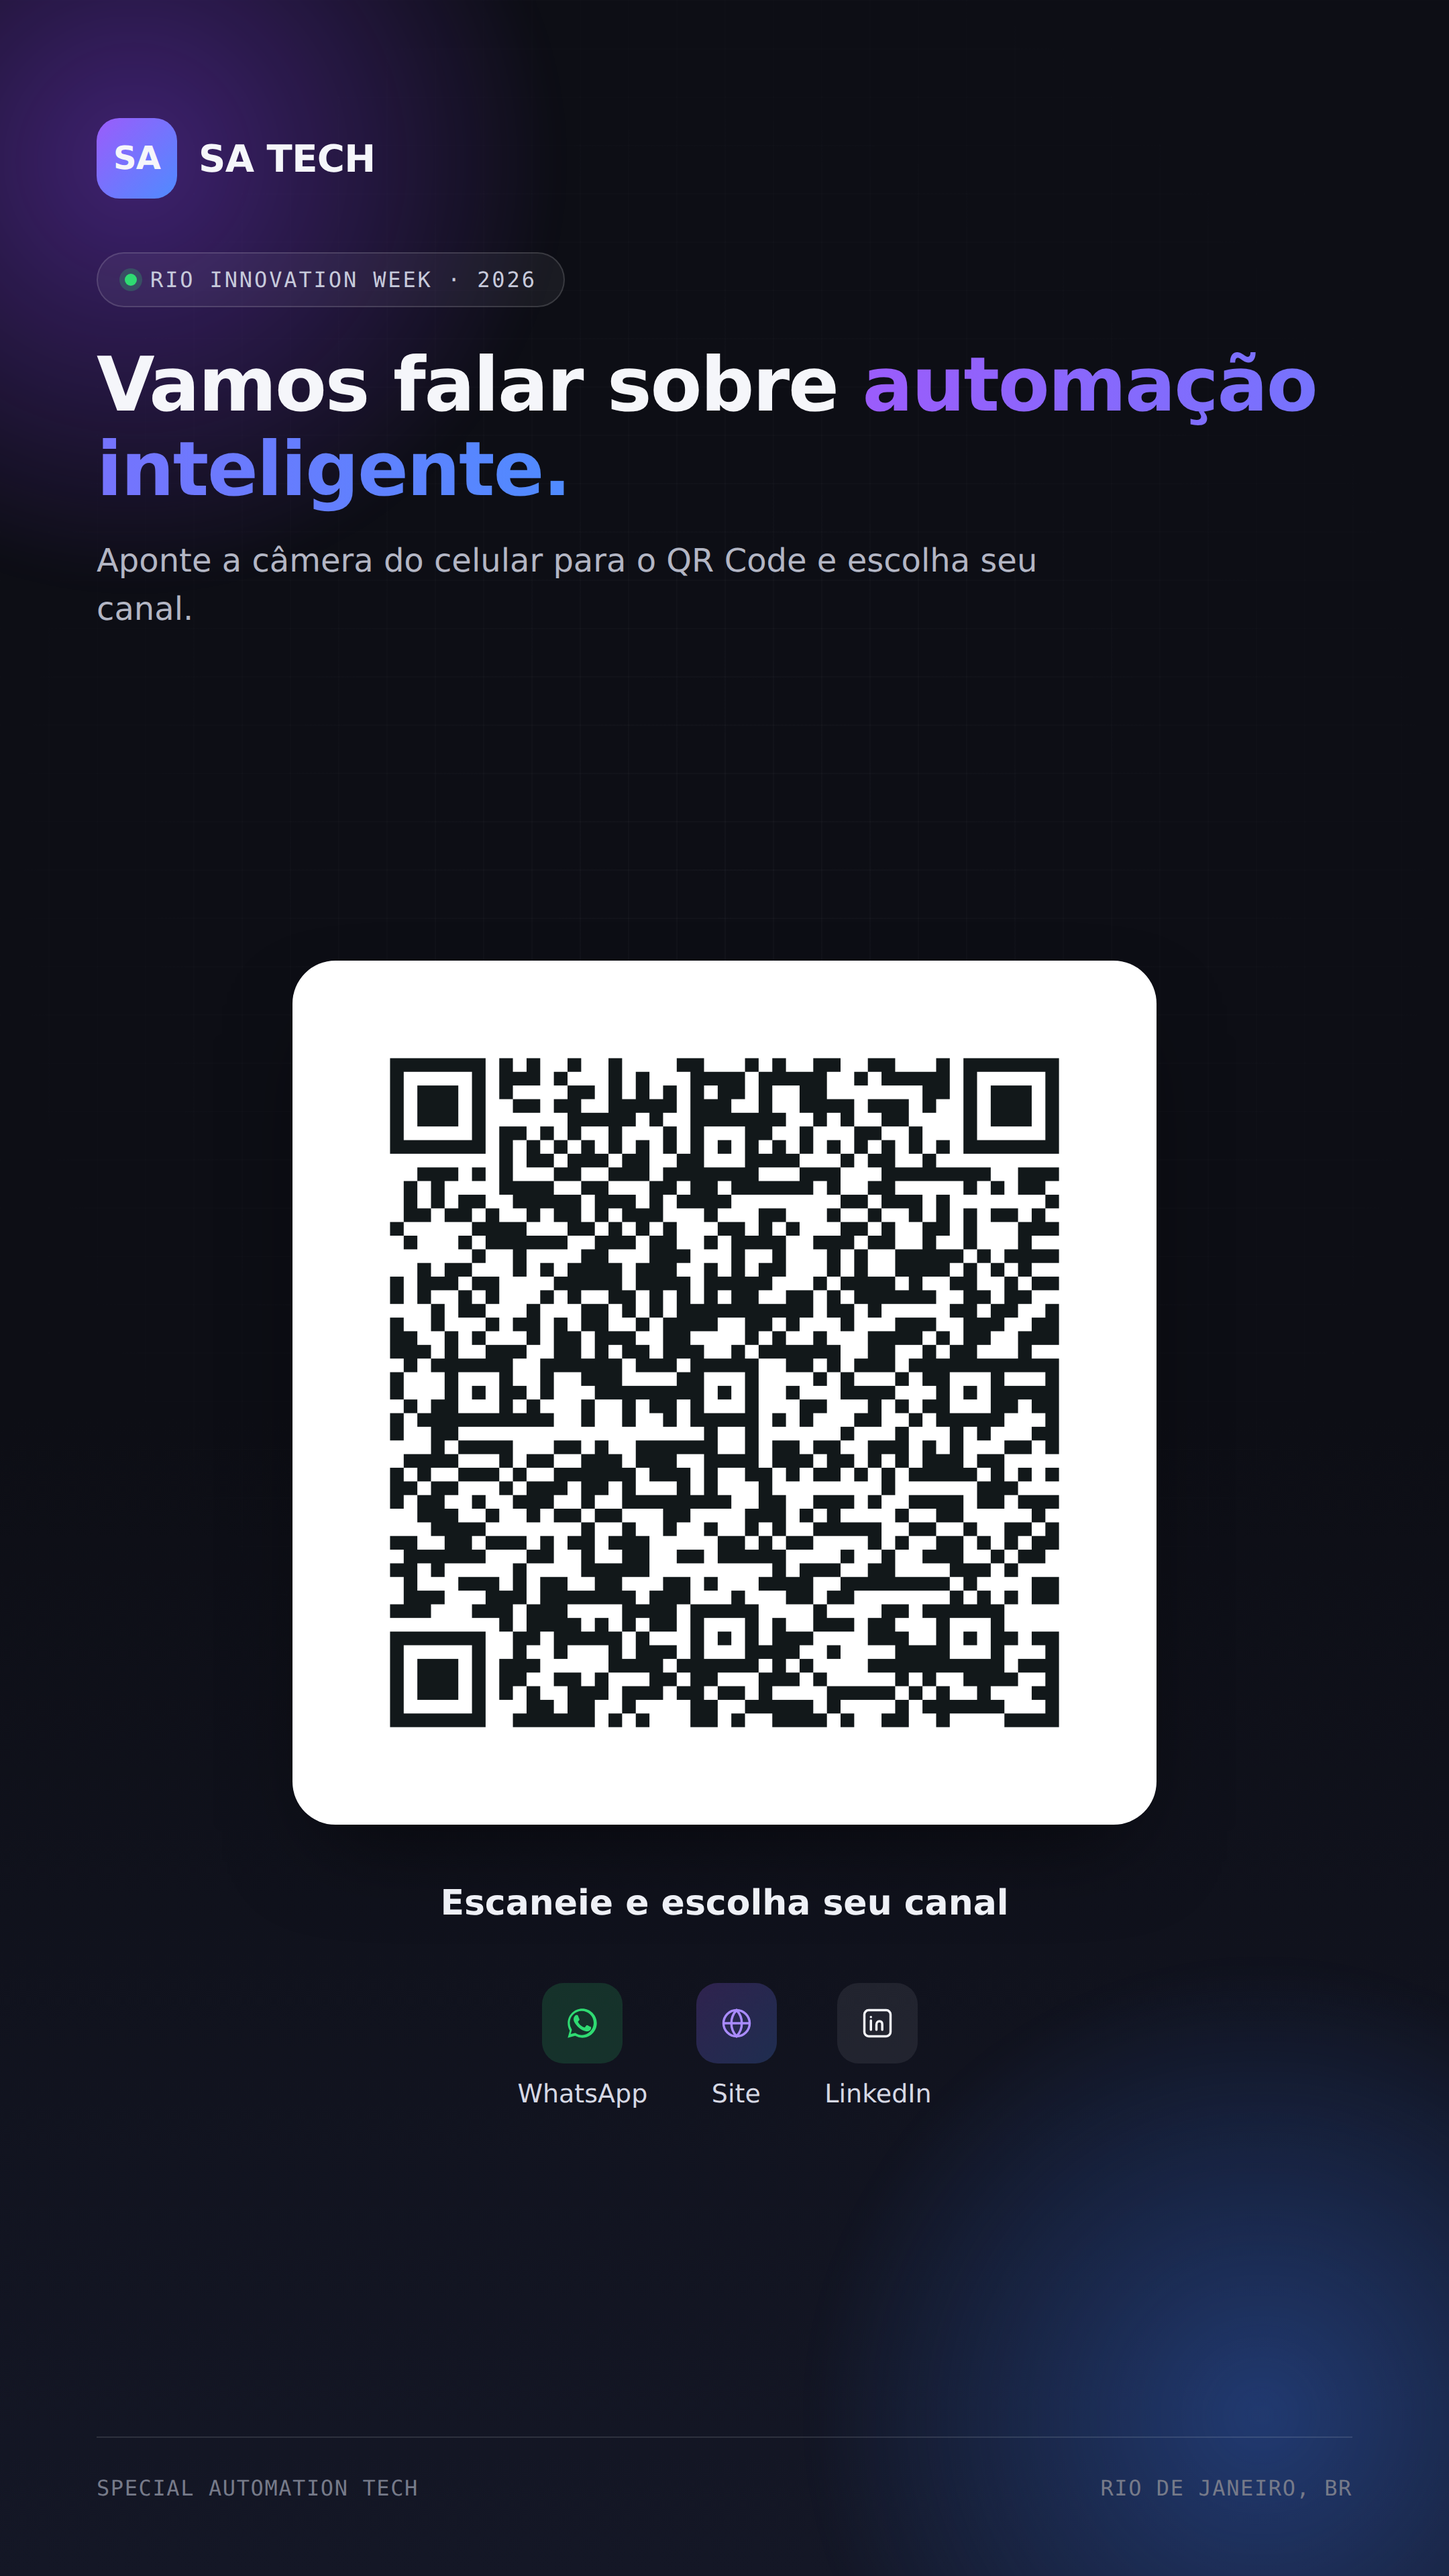
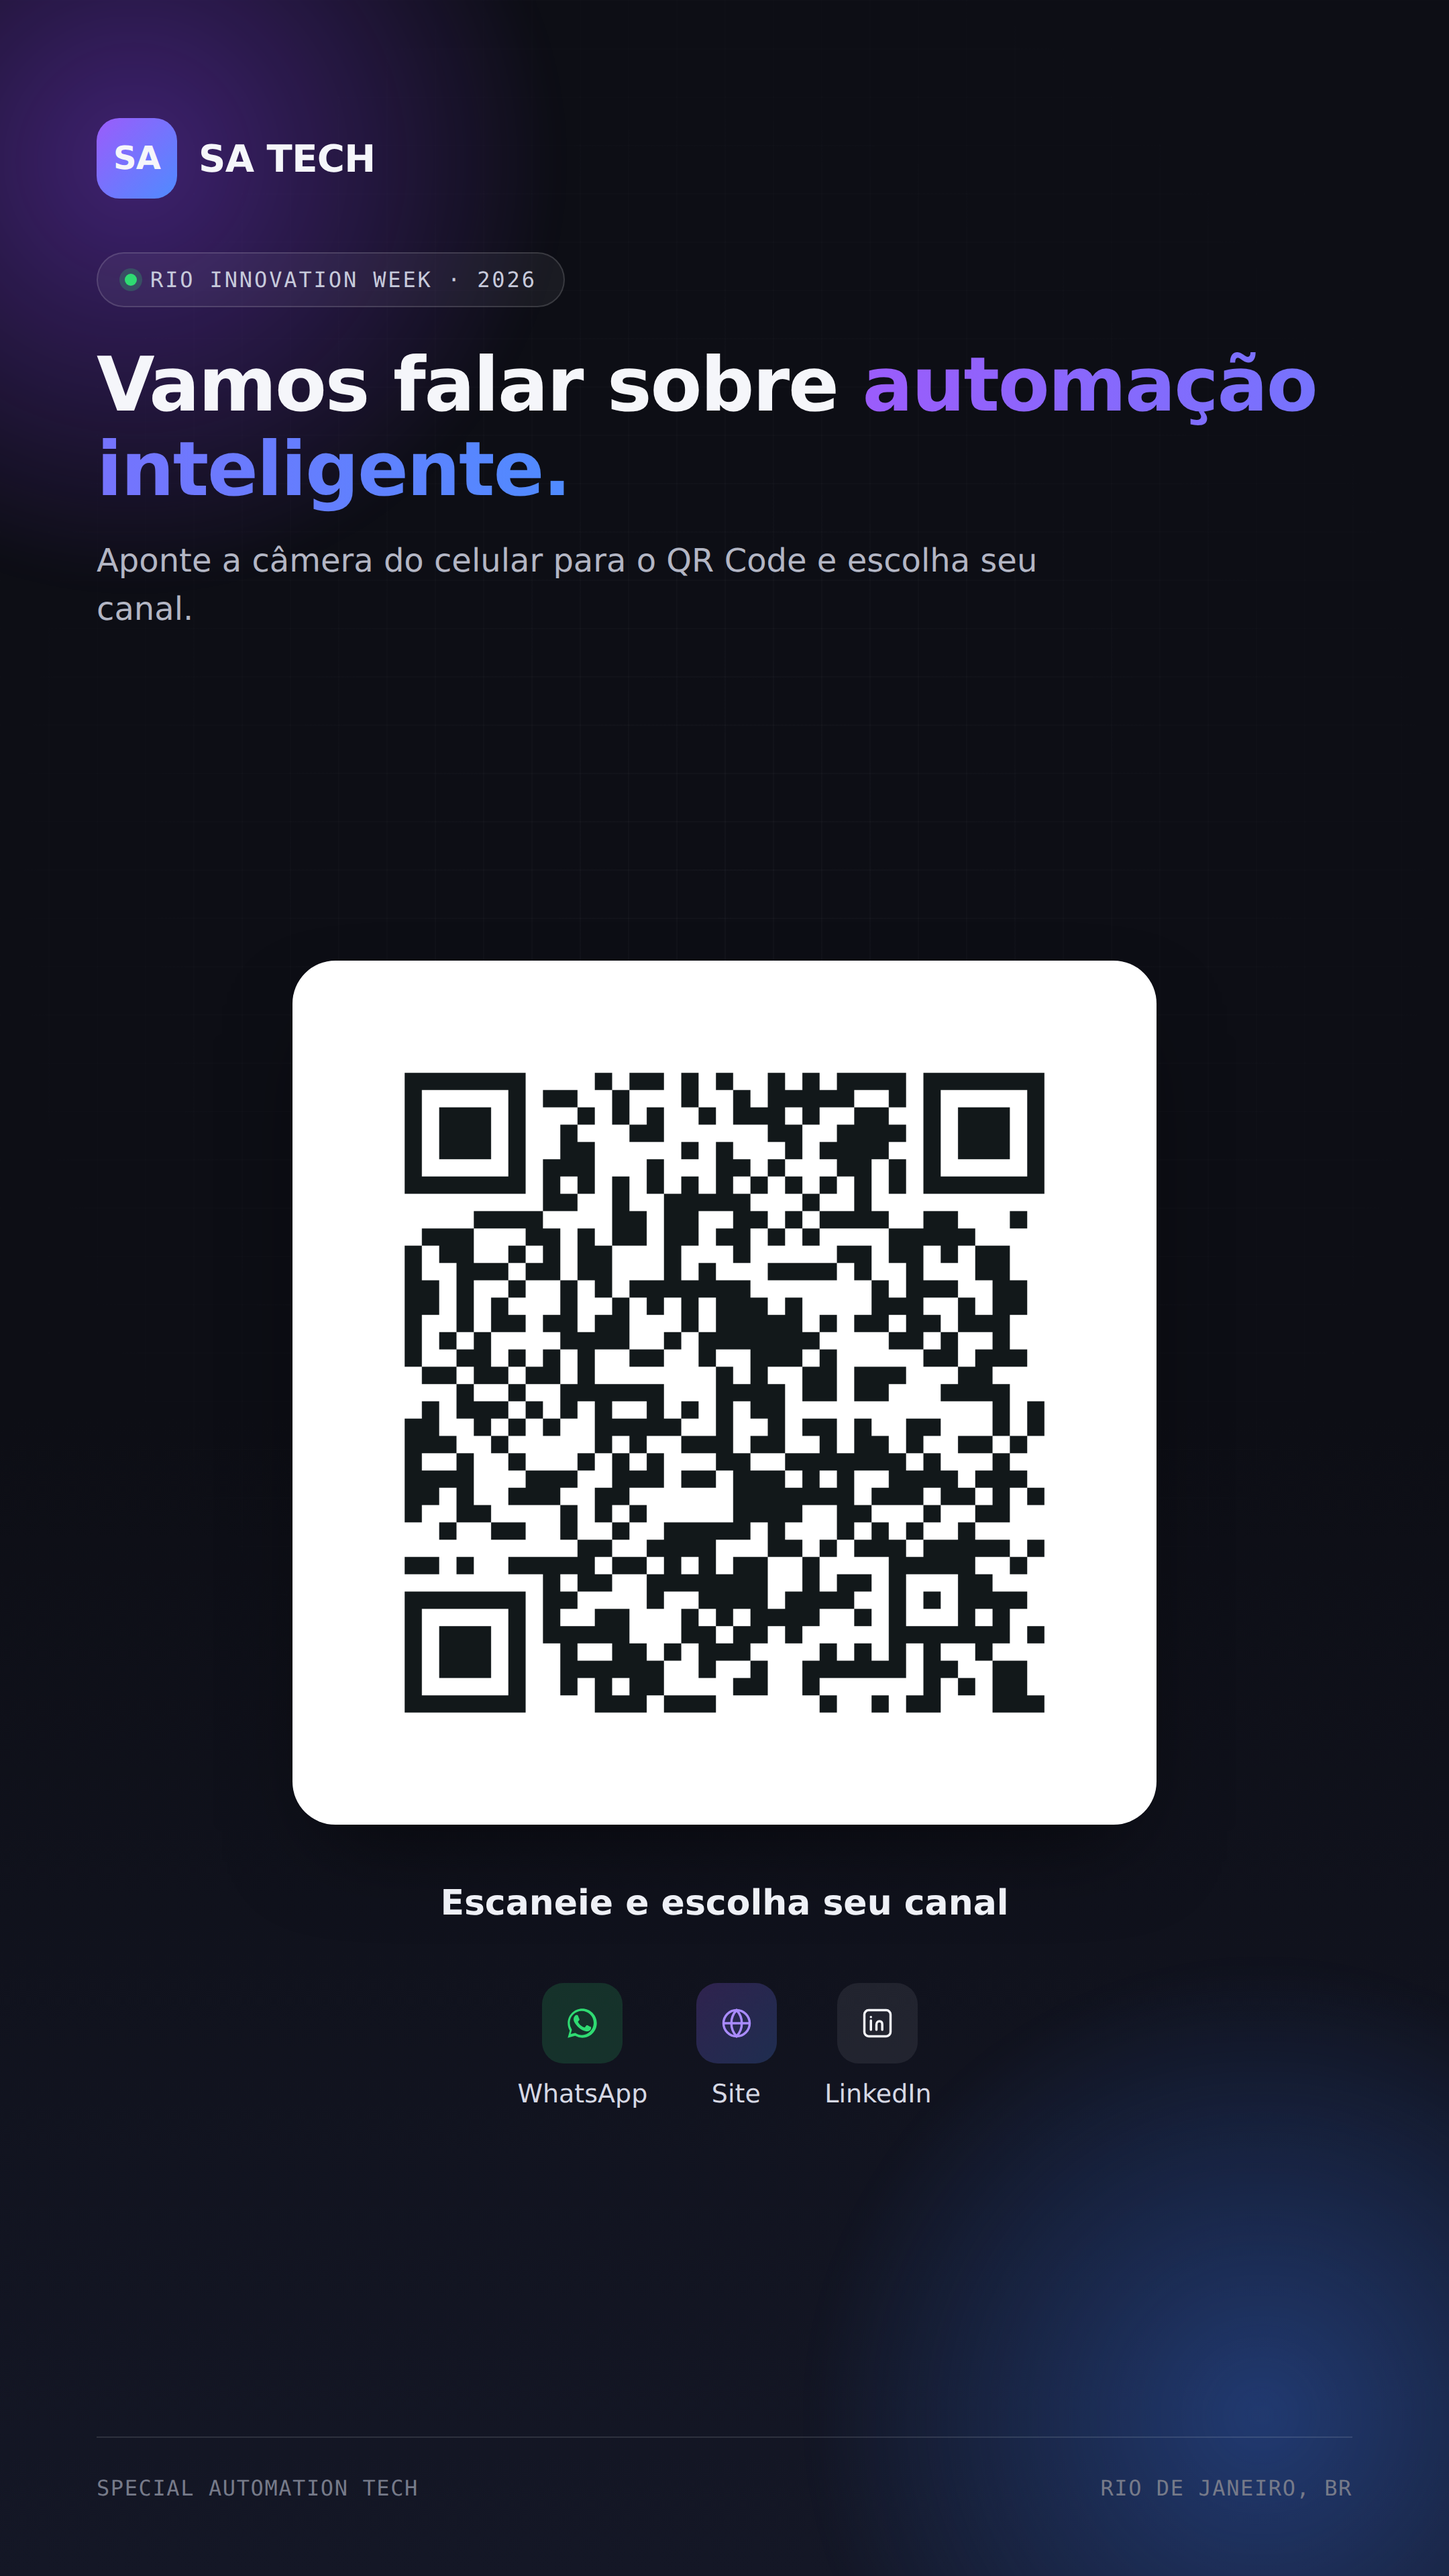
Serve landing page at root and point QR to Vercel domain
Adds index.html at the repo root so the connected Vercel deployment
(sa-tech-welcome.vercel.app) has something to serve at "/" instead of
404ing. Regenerates the QR code and poster to point at that permanent
domain instead of the temporary Claude artifact link.

Changed region(s): [[0.2481, 0.4062, 0.7444, 0.6875]]

diff --git a/qrcode-evento/poster-source.html b/qrcode-evento/poster-source.html
@@ -228,7 +228,7 @@
 
     <div class="stage">
       <div class="qr-wrap">
[2 lines of base64/hex data omitted]
       </div>
       <div class="scan-title">Escaneie e escolha seu canal</div>
       <div class="channels">

diff --git a/index.html b/index.html
@@ -1,0 +1,297 @@
+<title>SA TECH — Conecte-se</title>
+<style>
+  :root {
+    --bg: #f3f4fa;
+    --bg-elevated: #ffffff;
+    --panel-line: rgba(20, 21, 30, 0.12);
+    --ink: #15161d;
+    --ink-muted: #565a68;
+    --ink-faint: #868993;
+    --accent-1: #8b3ffb;
+    --accent-2: #3b7bfb;
+    --accent-ink: #ffffff;
+    --whatsapp: #22c55e;
+    --shadow: 0 1px 0 rgba(20,21,30,0.04);
+  }
+
+  @media (prefers-color-scheme: dark) {
+    :root {
+      --bg: #101019;
+      --bg-elevated: #1a1b26;
+      --panel-line: rgba(245, 246, 250, 0.12);
+      --ink: #f5f6fa;
+      --ink-muted: #b3b6c4;
+      --ink-faint: #767a89;
+      --accent-1: #9b5cfb;
+      --accent-2: #4f8bff;
+      --accent-ink: #ffffff;
+      --whatsapp: #2fdb72;
+      --shadow: 0 1px 0 rgba(0,0,0,0.4);
+    }
+  }
+  :root[data-theme="dark"] {
+    --bg: #101019;
+    --bg-elevated: #1a1b26;
+    --panel-line: rgba(245, 246, 250, 0.12);
+    --ink: #f5f6fa;
+    --ink-muted: #b3b6c4;
+    --ink-faint: #767a89;
+    --accent-1: #9b5cfb;
+    --accent-2: #4f8bff;
+    --accent-ink: #ffffff;
+    --whatsapp: #2fdb72;
+    --shadow: 0 1px 0 rgba(0,0,0,0.4);
+  }
+  :root[data-theme="light"] {
+    --bg: #f3f4fa;
+    --bg-elevated: #ffffff;
+    --panel-line: rgba(20, 21, 30, 0.12);
+    --ink: #15161d;
+    --ink-muted: #565a68;
+    --ink-faint: #868993;
+    --accent-1: #8b3ffb;
+    --accent-2: #3b7bfb;
+    --accent-ink: #ffffff;
+    --whatsapp: #22c55e;
+    --shadow: 0 1px 0 rgba(20,21,30,0.04);
+  }
+
+  * { box-sizing: border-box; }
+
+  html, body {
+    margin: 0;
+    min-height: 100%;
+    background: var(--bg);
+    color: var(--ink);
+  }
+
+  body {
+    font-family: ui-sans-serif, system-ui, -apple-system, "Segoe UI", Roboto, sans-serif;
+    display: flex;
+    align-items: center;
+    justify-content: center;
+    padding: 32px 20px;
+    position: relative;
+    overflow-x: hidden;
+  }
+
+  .grid-field {
+    position: fixed;
+    inset: 0;
+    z-index: 0;
+    opacity: 0.5;
+    pointer-events: none;
+    background-image:
+      linear-gradient(var(--panel-line) 1px, transparent 1px),
+      linear-gradient(90deg, var(--panel-line) 1px, transparent 1px);
+    background-size: 34px 34px;
+    -webkit-mask-image: radial-gradient(ellipse 70% 55% at 50% 38%, #000 0%, transparent 72%);
+            mask-image: radial-gradient(ellipse 70% 55% at 50% 38%, #000 0%, transparent 72%);
+  }
+
+  .card {
+    position: relative;
+    z-index: 1;
+    width: 100%;
+    max-width: 420px;
+    background: var(--bg-elevated);
+    border: 1px solid var(--panel-line);
+    border-radius: 18px;
+    padding: 36px 30px 30px;
+    box-shadow: var(--shadow), 0 20px 60px -30px rgba(0,0,0,0.5);
+  }
+
+  .eyebrow {
+    display: flex;
+    align-items: center;
+    gap: 8px;
+    font-family: ui-monospace, "SF Mono", "Cascadia Code", Menlo, Consolas, monospace;
+    font-size: 11px;
+    letter-spacing: 0.14em;
+    text-transform: uppercase;
+    color: var(--ink-faint);
+    margin: 0 0 22px;
+  }
+
+  .signal-dot {
+    width: 7px;
+    height: 7px;
+    border-radius: 50%;
+    background: var(--whatsapp);
+    box-shadow: 0 0 0 3px color-mix(in srgb, var(--whatsapp) 22%, transparent);
+    flex: none;
+    animation: pulse 2.4s ease-in-out infinite;
+  }
+
+  @keyframes pulse {
+    0%, 100% { opacity: 1; transform: scale(1); }
+    50% { opacity: 0.55; transform: scale(0.82); }
+  }
+
+  @media (prefers-reduced-motion: reduce) {
+    .signal-dot { animation: none; }
+  }
+
+  .wordmark {
+    font-family: ui-sans-serif, system-ui, -apple-system, "Segoe UI", Roboto, sans-serif;
+    font-weight: 800;
+    font-size: clamp(36px, 9vw, 44px);
+    letter-spacing: -0.02em;
+    line-height: 1;
+    margin: 0;
+    text-wrap: balance;
+  }
+
+  .wordmark span {
+    background: linear-gradient(90deg, var(--accent-1), var(--accent-2));
+    -webkit-background-clip: text;
+    background-clip: text;
+    color: transparent;
+  }
+
+  .subline {
+    margin: 10px 0 0;
+    font-size: 14px;
+    color: var(--ink-muted);
+    line-height: 1.5;
+    max-width: 34ch;
+  }
+
+  .links {
+    display: flex;
+    flex-direction: column;
+    gap: 10px;
+    margin-top: 28px;
+  }
+
+  .link-btn {
+    display: flex;
+    align-items: center;
+    gap: 13px;
+    padding: 14px 16px;
+    border-radius: 12px;
+    border: 1px solid var(--panel-line);
+    text-decoration: none;
+    color: var(--ink);
+    background: transparent;
+    transition: border-color 0.15s ease, background-color 0.15s ease, transform 0.1s ease;
+  }
+
+  .link-btn:hover {
+    border-color: color-mix(in srgb, var(--accent-2) 55%, var(--panel-line));
+    background: linear-gradient(90deg, color-mix(in srgb, var(--accent-1) 8%, transparent), color-mix(in srgb, var(--accent-2) 8%, transparent));
+  }
+
+  .link-btn:active { transform: scale(0.99); }
+
+  .link-btn:focus-visible {
+    outline: 2px solid var(--accent-2);
+    outline-offset: 2px;
+  }
+
+  .link-btn.primary {
+    background: var(--whatsapp);
+    border-color: var(--whatsapp);
+    color: var(--accent-ink);
+  }
+
+  .link-btn.primary:hover { background: var(--whatsapp); filter: brightness(1.06); }
+
+  .link-btn.gradient {
+    background: linear-gradient(90deg, var(--accent-1), var(--accent-2));
+    border-color: transparent;
+    color: var(--accent-ink);
+  }
+
+  .link-btn.gradient:hover { filter: brightness(1.08); background: linear-gradient(90deg, var(--accent-1), var(--accent-2)); }
+  .link-btn.gradient .link-meta { color: rgba(255,255,255,0.8); }
+
+  .icon {
+    width: 20px;
+    height: 20px;
+    flex: none;
+  }
+
+  .link-copy { display: flex; flex-direction: column; gap: 1px; min-width: 0; }
+
+  .link-title { font-size: 14.5px; font-weight: 600; }
+
+  .link-meta {
+    font-size: 12px;
+    color: var(--ink-faint);
+    font-family: ui-monospace, "SF Mono", "Cascadia Code", Menlo, Consolas, monospace;
+    white-space: nowrap;
+    overflow: hidden;
+    text-overflow: ellipsis;
+  }
+
+  .link-btn.primary .link-meta { color: color-mix(in srgb, var(--accent-ink) 75%, transparent); }
+
+  .arrow { margin-left: auto; flex: none; opacity: 0.5; }
+
+  .footer {
+    margin-top: 26px;
+    padding-top: 18px;
+    border-top: 1px solid var(--panel-line);
+    display: flex;
+    justify-content: space-between;
+    align-items: baseline;
+    font-family: ui-monospace, "SF Mono", "Cascadia Code", Menlo, Consolas, monospace;
+    font-size: 10.5px;
+    letter-spacing: 0.06em;
+    text-transform: uppercase;
+    color: var(--ink-faint);
+  }
+</style>
+
+<div class="grid-field" aria-hidden="true"></div>
+
+<main class="card">
+  <p class="eyebrow"><span class="signal-dot" aria-hidden="true"></span>Rio Innovation Week · 2026</p>
+
+  <h1 class="wordmark">SA<span>·</span>TECH</h1>
+  <p class="subline">Special Automation Tech. Escolha um canal para continuar a conversa.</p>
+
+  <nav class="links" aria-label="Canais de contato">
+    <a class="link-btn primary" href="https://wa.me/5521920453995?text=Ol%C3%A1%21%20Vim%20da%20Rio%20Innovation%20Week%20%F0%9F%91%8B" target="_blank" rel="noopener">
+      <svg class="icon" viewBox="0 0 24 24" fill="none" aria-hidden="true">
+        <path d="M17.47 14.38c-.3-.15-1.77-.87-2.04-.97-.27-.1-.47-.15-.67.15-.2.3-.77.97-.94 1.17-.17.2-.35.22-.65.07-.3-.15-1.25-.46-2.38-1.47-.88-.78-1.47-1.75-1.65-2.05-.17-.3-.02-.46.13-.61.14-.14.3-.35.45-.52.15-.17.2-.3.3-.5.1-.2.05-.37-.02-.52-.07-.15-.67-1.62-.92-2.22-.24-.58-.49-.5-.67-.51-.17-.01-.37-.01-.57-.01-.2 0-.52.07-.79.37-.27.3-1.04 1.02-1.04 2.48 0 1.46 1.07 2.87 1.22 3.07.15.2 2.1 3.2 5.08 4.49.71.31 1.26.49 1.69.62.71.23 1.36.2 1.87.12.57-.09 1.77-.72 2.02-1.42.25-.7.25-1.29.17-1.42-.07-.12-.27-.2-.57-.35z" fill="currentColor"/>
+        <path d="M12.02 2C6.5 2 2 6.48 2 12c0 1.85.5 3.58 1.38 5.07L2 22l5.08-1.33A9.96 9.96 0 0012.02 22C17.53 22 22 17.52 22 12S17.53 2 12.02 2zm0 18.2c-1.7 0-3.28-.5-4.6-1.36l-.33-.2-3.02.79.81-2.94-.21-.34a8.18 8.18 0 01-1.27-4.35c0-4.53 3.7-8.2 8.24-8.2 4.53 0 8.2 3.67 8.2 8.2 0 4.53-3.67 8.4-8.22 8.4z" fill="currentColor"/>
+      </svg>
+      <span class="link-copy">
+        <span class="link-title">Chamar no WhatsApp</span>
+        <span class="link-meta">+55 21 92045-3995</span>
+      </span>
+      <svg class="arrow" width="16" height="16" viewBox="0 0 16 16" fill="none" aria-hidden="true"><path d="M6 3l5 5-5 5" stroke="currentColor" stroke-width="1.6" stroke-linecap="round" stroke-linejoin="round"/></svg>
+    </a>
+
+    <a class="link-btn gradient" href="https://specialautomation.brazio.tech/" target="_blank" rel="noopener">
+      <svg class="icon" viewBox="0 0 24 24" fill="none" aria-hidden="true">
+        <circle cx="12" cy="12" r="9" stroke="currentColor" stroke-width="1.6"/>
+        <path d="M3 12h18M12 3c2.4 2.5 3.6 5.5 3.6 9s-1.2 6.5-3.6 9c-2.4-2.5-3.6-5.5-3.6-9S9.6 5.5 12 3z" stroke="currentColor" stroke-width="1.6"/>
+      </svg>
+      <span class="link-copy">
+        <span class="link-title">Visitar o site</span>
+        <span class="link-meta">specialautomation.brazio.tech</span>
+      </span>
+      <svg class="arrow" width="16" height="16" viewBox="0 0 16 16" fill="none" aria-hidden="true"><path d="M6 3l5 5-5 5" stroke="currentColor" stroke-width="1.6" stroke-linecap="round" stroke-linejoin="round"/></svg>
+    </a>
+
+    <a class="link-btn" href="https://www.linkedin.com/company/specialautomationtech" target="_blank" rel="noopener">
+      <svg class="icon" viewBox="0 0 24 24" fill="none" aria-hidden="true">
+        <rect x="3" y="3" width="18" height="18" rx="3" stroke="currentColor" stroke-width="1.6"/>
+        <path d="M7.5 10.2v6.3M7.5 7.7v.01M11.3 16.5v-3.6c0-1.4.9-2.3 2.1-2.3 1.2 0 1.9.8 1.9 2.3v3.6" stroke="currentColor" stroke-width="1.6" stroke-linecap="round" stroke-linejoin="round"/>
+      </svg>
+      <span class="link-copy">
+        <span class="link-title">Seguir no LinkedIn</span>
+        <span class="link-meta">/company/specialautomationtech</span>
+      </span>
+      <svg class="arrow" width="16" height="16" viewBox="0 0 16 16" fill="none" aria-hidden="true"><path d="M6 3l5 5-5 5" stroke="currentColor" stroke-width="1.6" stroke-linecap="round" stroke-linejoin="round"/></svg>
+    </a>
+  </nav>
+
+  <div class="footer">
+    <span>SA Tech</span>
+    <span>Rio de Janeiro, BR</span>
+  </div>
+</main>

diff --git a/qrcode-evento/gen_qr.py b/qrcode-evento/gen_qr.py
@@ -1,7 +1,7 @@
 import qrcode
 from qrcode.constants import ERROR_CORRECT_H
 
-url = "https://claude.ai/code/artifact/71efed19-774b-432e-adcf-6402d845964c"
+url = "https://sa-tech-welcome.vercel.app/"
 
 qr = qrcode.QRCode(
     version=None,
